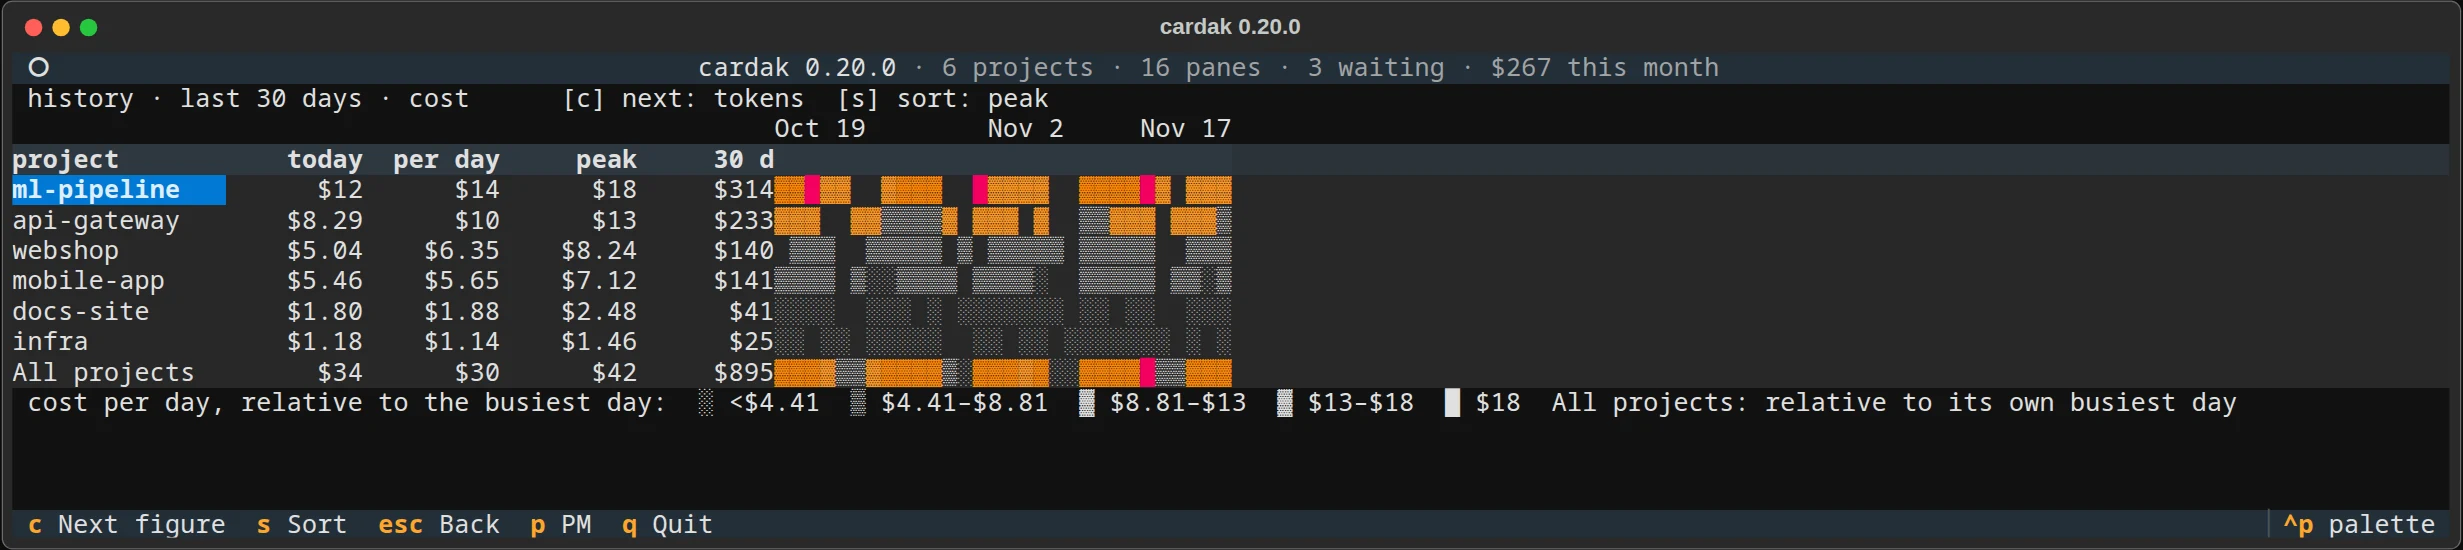
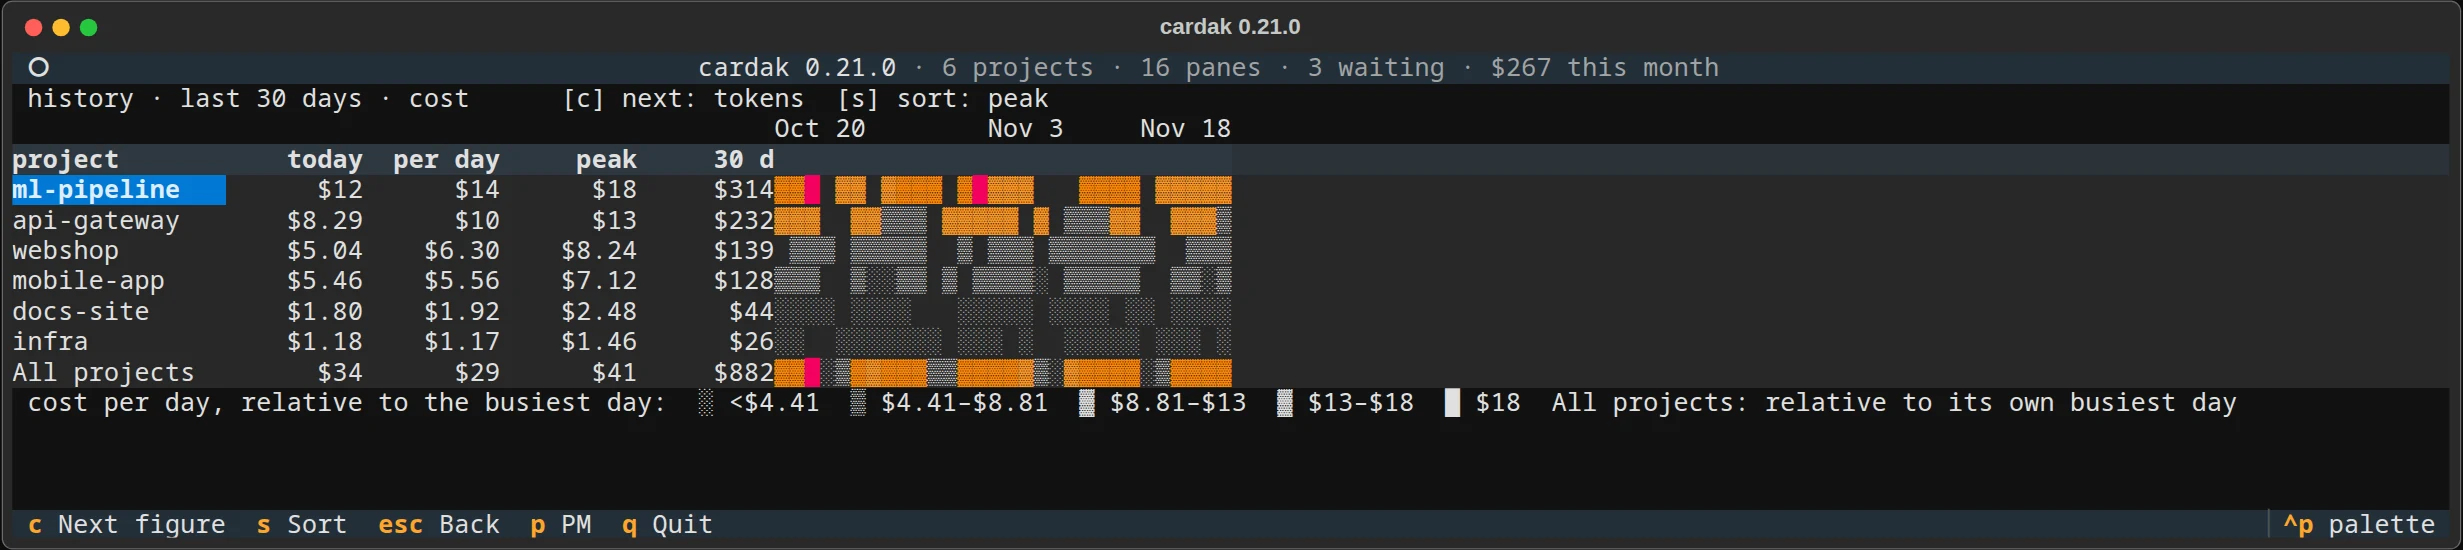
release: cut 0.21.0
Claude-Session: https://claude.ai/code/session_01V42KtFQbAK7HWFCYEfik4B

diff --git a/CHANGELOG.md b/CHANGELOG.md
@@ -9,6 +9,8 @@ for fixes, dependencies and internal work. See "Versioning and releases" in
 
 ## Unreleased
 
+## 0.21.0 — 2026-11-18
+
 ### Added
 - The theme picker (`t`) shows where a project's art sits, and `ctrl+l` moves it through the nine spots from top left to bottom right, previewed on the project's windows; Enter saves it with the scheme. Run `cardak wezterm install` again for the preview (#175).
 
